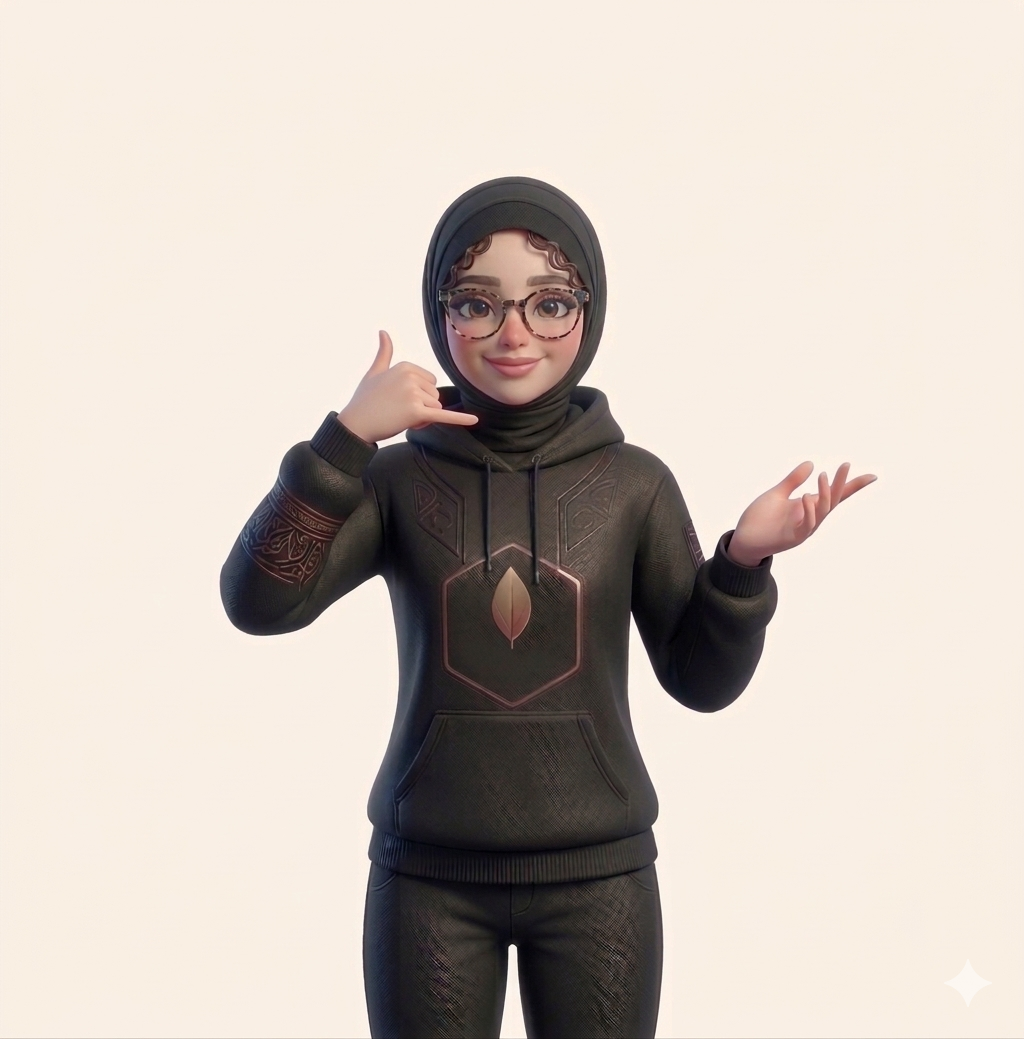
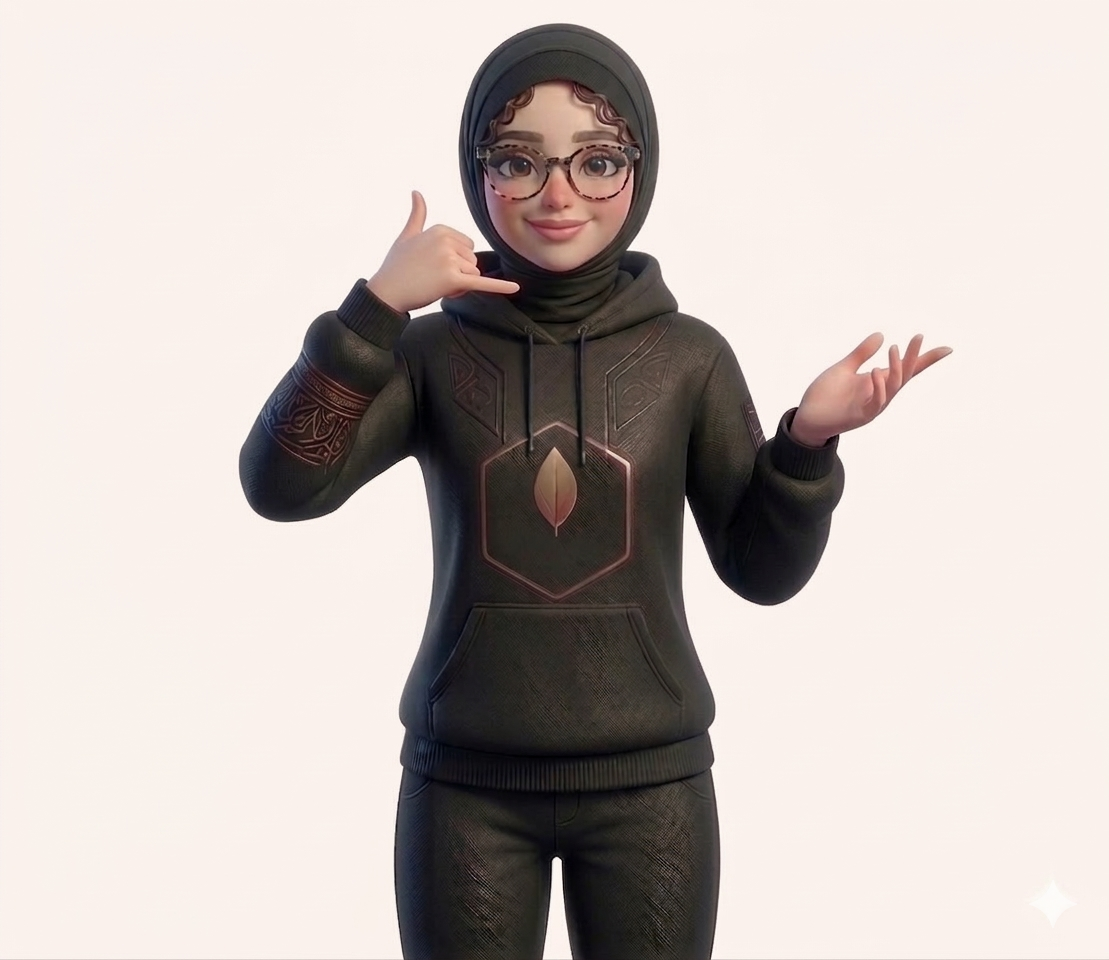
commit

diff --git a/app/components/projects/page.js b/app/components/projects/page.js
@@ -1,0 +1,121 @@
+"use client"
+import React from 'react'
+import Image from "next/image"
+import { motion } from "framer-motion"
+import projects from "../../../public/imgs/projects.png"
+
+const Projects = () => {
+
+    const projectsArray = [
+        {
+            title: "Burger Builder App",
+            tech: "HTML, CSS, JavaScript (Vanilla JS)",
+            description: "A dynamic burger customization application built in vanilla JavaScript. Users can add and remove ingredients in real-time with DOM manipulation, updating pricing logic instantly for an interactive user experience.",
+            github: "https://github.com/saleenagul35-svg/Burger-Builder.git",
+            live: "https://saleenagul35-svg.github.io/Burger-Builder/",
+            image: "/imgs/Burger-Builder.png",
+        },
+        {
+            title: "Finance Tracker App",
+            tech: "React, Tailwind CSS",
+            description: "A personal finance tracking application that allows users to manage income and expenses effectively. Focused on clean UI structure, reusable components, and performance optimization.",
+            github: "https://github.com/saleenagul35-svg/finance-Tracker-App.git",
+            live: "https://finance-tracker-app-beige.vercel.app/",
+            image: "/imgs/Finance-Tracker.png",
+        },
+        {
+            title: "Mythical Creature Explorer",
+            tech: "HTML, CSS, JavaScript (Vanilla JS)",
+            description: "An interactive web application that allows users to explore various mythical creatures with dynamic content rendering using pure JavaScript. Built with advanced DOM manipulation, structured data handling, and responsive UI to deliver an engaging browsing experience.",
+            github: "https://github.com/saleenagul35-svg/Mythical-Creatures-Explorer.git",
+            live: "https://saleenagul35-svg.github.io/Mythical-Creatures-Explorer/",
+            image: "/imgs/Mythical-Creature-Explorer.png",
+        },
+        {
+            title: "Project Management Dashboard",
+            tech: "HTML, CSS, JavaScript (Vanilla JS)",
+            description: "A fully interactive task and workflow dashboard developed using pure JavaScript. Features task tracking, dynamic UI updates, and structured component logic for managing projects efficiently.",
+            github: "https://github.com/saleenagul35-svg/Project-management-dashboard.git",
+            live: "https://saleenagul35-svg.github.io/Project-management-dashboard/",
+            image: "/imgs/Dashboard.png",
+        },
+
+        {
+            title: "React To-Do App",
+            tech: "React, Tailwind CSS",
+            description: "A modern task management application built with React and styled using Tailwind CSS. Implements component-based architecture, dynamic state management, and a clean responsive design.",
+            github: "#",
+            live: "#",
+            image: "/imgs/To-do-list.png",
+        },
+        {
+            title: "Next.js Calculator",
+            tech: "Next.js, Tailwind CSS",
+            description: "A responsive and optimized calculator application built using Next.js. Demonstrates efficient state handling, reusable components, and clean UI design principles.",
+            github: "https://github.com/saleenagul35-svg/Calculator.git",
+            live: "https://calculator-two-nu-14.vercel.app/",
+            image: "/imgs/Calculator.png",
+        },
+
+    ];
+
+    const leftProjects = projectsArray.slice(0, 4)
+    const rightProjects = projectsArray.slice(4, 6)
+    return (
+        <>
+            <section className='flex justify-center mt-20' id='projects'>
+                <motion.div className='w-275 bg-[#FAF1ED] rounded-[40px] h-250 flex flex-col justify-center p-10 items-center gap-10 shadow-lg shadow-black-200 '>
+                    <h1 className='text-transparent bg-clip-text bg-linear-to-br from-[#f6aa74] via-[#f8c5bb] to-[#f4593a] text-6xl font-bold'>Projects</h1>
+                    <div className='flex justify-center items-center gap-25 '>
+                        <div className='flex flex-col gap-10'>
+                            {leftProjects.map((arr, i) =>
+
+                                <div className=' bg-[#FAF1ED] ' key={i}>
+                                    <Image
+                                        src={arr.image}
+                                        alt={arr.title}
+                                        height={300}
+                                        width={400}
+                                        className='rounded-[10px] '
+
+
+                                    />
+                                </div>
+
+
+                            )}
+                        </div>
+                        <div className=' h-90 w-85 bg-[#FAF1ED] flex justify-center'>
+                            <Image
+                                src={projects}
+                                alt='projects'
+                                className='rounded-[100px] '
+
+                            />
+                        </div>
+                        <div className='flex flex-col gap-10'>
+                            {rightProjects.map((arr, i) =>
+
+                                <div className=' bg-[#FAF1ED] ' key={i}>
+                                    <Image
+                                        src={arr.image}
+                                        alt={arr.title}
+                                        height={396}
+                                        width={300}
+                                        className='rounded-[10px] max-h-99 '
+
+
+                                    />
+                                </div>
+
+
+                            )}
+                        </div>
+                    </div>
+                </motion.div>
+            </section>
+        </>
+    )
+}
+
+export default Projects

diff --git a/app/components/hero/page.js b/app/components/hero/page.js
@@ -1,20 +1,20 @@
 "use client"
 import React from 'react'
 import Image from "next/image"
-import {motion} from "framer-motion"
+import { motion } from "framer-motion"
 import hero from "../../../public/imgs/hero.png"
 import { IoMdDownload } from "react-icons/io";
 const Hero = () => {
   return (
     <section className='flex justify-center mt-20' id='hero'>
       <motion.div className='w-275 bg-[#fcf4f0] rounded-[40px] h-120 flex justify-center items-center gap-40 shadow-lg shadow-black-200'>
-        <div className=' h-65 w-85 bg-[#fcf4f0] '>
-        <Image 
-        src={hero}
-        alt='hero'
-        className='rounded-[100px] relative bottom-20'
-       
-        />
+        <div className=' h-90 w-85 bg-[#fcf4f0] flex justify-center '>
+          <Image
+            src={hero}
+            alt='hero'
+            className='rounded-[100px] '
+
+          />
         </div>
         <div className='w-120 flex flex-col gap-10'>
           <h1 className='text-[#ff6659] text-6xl font-bold'>Saleena Gul</h1>
@@ -22,22 +22,22 @@ const Hero = () => {
             A passionate frontend developer creating modern and interactive web experiences using React, Next.js, and beautiful UI animations.
           </p>
           <div className='flex gap-5'>
-            <motion.a href='../../../public/imgs/Saleena-Gul.pdf' download 
-            whileHover={{backgroundColor:"white", border:"1px solid #ff6659", color:"#ff6659", scale:1.08}} 
-            className='py-2.75 px-5  rounded-[10px] bg-[#ff6659] text-white flex items-center gap-2'
+            <motion.a href='../../../public/imgs/Saleena-Gul.pdf' download
+              whileHover={{ backgroundColor: "white", border: "1px solid #ff6659", color: "#ff6659", scale: 1.08 }}
+              className='py-2.75 px-5  rounded-[10px] bg-[#ff6659] text-white flex items-center gap-2'
             ><IoMdDownload />Resume</motion.a>
-          
+
             <motion.a
-            href='#contact'
-             whileHover={{backgroundColor:"#ff6659", color:"white", scale:1.08}} 
-             className='text-[#ff6659] border border-[#ff6659] py-2.75 px-5 rounded-[10px] cursor-pointer'
+              href='#contact'
+              whileHover={{ backgroundColor: "#ff6659", color: "white", scale: 1.08 }}
+              className='text-[#ff6659] border border-[#ff6659] py-2.75 px-5 rounded-[10px] cursor-pointer'
 
             >Contact me</motion.a>
-     
+
           </div>
         </div>
       </motion.div>
-      
+
     </section>
   )
 }

diff --git a/app/components/footer/page.js b/app/components/footer/page.js
@@ -1,0 +1,36 @@
+"use client"
+import React from 'react'
+import { motion } from "framer-motion"
+import { MdEmail } from "react-icons/md";
+import { IoLogoGithub } from "react-icons/io";
+import { FaLinkedin } from "react-icons/fa";
+const Footer = () => {
+    const links = ["About", "Education", "Skills", "Projects", "Contact"]
+    return (
+
+        <>
+
+            <motion.div className=' bg-[#FAF1ED] mt-20 p-10 flex flex-col justify-center items-center gap-4 shadow-lg shadow-black-200 '>
+                <h1 className='text-lg font-medium'>Saleena Gul</h1>
+                <p className='text-sm text-gray-700'>MERN stack developer building modren web experiences</p>
+                <div className='flex gap-5 '>
+                    {links.map((arr) =>
+                        <a href={`#${arr.toLowerCase()}`} className='text-sm font-semibold hover:text-[#ff6659]'>{arr}</a>
+                    )}
+                </div>
+                <div className='flex gap-5 '>
+                    <a href='http://www.linkedin.com/in/saleena-gul' target='_blank' className='text-gray-700 hover:text-[#ff6659]'><FaLinkedin /></a>
+                    <a href='https://mail.google.com/mail/?view=cm&fs=1&to=saleenagul35@gmail.com' target='_blank' className='text-gray-700 hover:text-[#ff6659]'><MdEmail /></a>
+                    <a href='https://github.com/saleenagul35-svg' target='_blank' className='text-gray-700 hover:text-[#ff6659]'><IoLogoGithub /></a>
+                </div>
+                <div className='text-sm text-gray-700'>
+                     © {new Date().getFullYear()} Saleena Gul. All rights resevered
+                </div>
+            </motion.div>
+
+
+        </>
+    )
+}
+
+export default Footer

diff --git a/app/components/contact/page.js b/app/components/contact/page.js
@@ -7,18 +7,18 @@ const Contact = () => {
     return (
         <>
             <section className=' flex justify-center mt-20' id='contact'>
-                <motion.div className='w-275 bg-[#f9efe5] rounded-[40px] h-135 flex flex-col justify-center items-center gap-10 shadow-lg shadow-black-200 '>
+                <motion.div className='w-275 bg-[#FAF1ED] rounded-[40px] h-135 flex flex-col justify-center items-center gap-10 shadow-lg shadow-black-200 '>
                     <div className='flex flex-col justify-center items-center gap-3'>
-                        <h1 className=' text-5xl font-bold'>Get In Touch</h1>
+                        <h1 className=' text-5xl font-bold text-transparent bg-clip-text bg-linear-to-br from-[#f6aa74] via-[#f8c5bb] to-[#f4593a]'>Get In Touch</h1>
                         <p className='text-xl text-gray-700'>Feel free to reach out for collaboration or opportunities</p>
                     </div>
                     <div className='flex gap-30 justify-center items-center '>
 
-                        <div className=' h-100 w-100 bg-[#f9efe5] '>
+                        <div className=' h-90 w-85 bg-[#FAF1ED] flex justify-center '>
                             <Image
                                 src={contact}
                                 alt='skills'
-                                className='rounded-[100px] relative bottom-9 h-full'
+                                className='rounded-[100px]'
 
                             />
                         </div>

diff --git a/app/components/about/page.js b/app/components/about/page.js
@@ -10,7 +10,7 @@ const About = () => {
             <motion.div className='w-275 bg-[#fcf4f0] rounded-[40px] h-120 flex justify-center items-center gap-20 shadow-lg shadow-black-200'>
 
                 <div className='w-150 flex flex-col gap-10'>
-                    <h1 className='text-[#ff6659] text-6xl font-bold flex gap-5'><span className='text-black'>About</span><span>Me</span></h1>
+                    <h1 className=' text-6xl font-bold flex gap-5'><span className='text-black'>About</span><span className='text-transparent bg-clip-text bg-linear-to-br from-[#f6aa74] via-[#f8c5bb] to-[#f4593a]'>Me</span></h1>
                     <p className='text-l text-gray-700'>
                         I’m a passionate frontend developer who enjoys transforming ideas into beautiful and interactive web experiences. I focus on building modern, responsive interfaces using the latest web technologies.
 
@@ -39,11 +39,11 @@ const About = () => {
 
                     </div>
                 </div>
-                <div className=' h-65 w-85 bg-[#fcf4f0] '>
+                <div className=' h-90 w-85 bg-[#fcf4f0] flex justify-center '>
                     <Image
                         src={about}
                         alt='about'
-                        className='rounded-[100px] relative bottom-8'
+                        className='rounded-[100px] '
 
                     />
                 </div>

diff --git a/app/components/skills/page.js b/app/components/skills/page.js
@@ -22,7 +22,7 @@ const Skills = () => {
         <>
             <section className=' flex justify-center mt-20' id='skills'>
                 <motion.div className='w-275 bg-[#fcf4f0] rounded-[40px] h-140 flex flex-col justify-center items-center gap-15 shadow-lg shadow-black-200 '>
-                    <h1 className='text-[#ff6659] text-6xl font-bold'>Skills</h1>
+                    <h1 className='text-transparent bg-clip-text bg-linear-to-br from-[#f6aa74] via-[#f8c5bb] to-[#f4593a] text-6xl font-bold'>Skills</h1>
                     <div className='flex gap-25'>
                         <div className='grid grid-cols-3 gap-10'>
                             {skills.map((arr, i) =>
@@ -31,11 +31,11 @@ const Skills = () => {
                                 >{arr}</motion.div>
                             )}
                         </div>
-                        <div className=' h-65 w-85 bg-[#fcf4f0] '>
+                        <div className=' h-90 w-85 bg-[#fcf4f0] flex justify-center '>
                             <Image
                                 src={skill}
                                 alt='skills'
-                                className='rounded-[100px] relative bottom-15'
+                                className='rounded-[100px] '
 
                             />
                         </div>

diff --git a/app/components/education/page.js b/app/components/education/page.js
@@ -38,7 +38,7 @@ const Education = () => {
         <>
             <section className='flex justify-center mt-20' id='education'>
                 <motion.div className='w-275 bg-[#fcf4f0] rounded-[40px] h-120 flex flex-col justify-center items-center gap-25 shadow-lg shadow-black-200 '>
-                    <h1 className='text-[#ff6659] text-5xl font-bold flex gap-5'><span className='text-black'>My</span><span>Education</span></h1>
+                    <h1 className=' text-5xl font-bold flex gap-5'><span className='text-black'>My</span><span className='text-transparent bg-clip-text bg-linear-to-br from-[#f6aa74] via-[#f8c5bb] to-[#f4593a]'>Education</span></h1>
                     <div className='flex gap-6'>
                     {educationData.map((arr,i) =>
                         <motion.div key={i} className='w-60 bg-[#ffffff] p-5 rounded-2xl flex flex-col gap-5' whileHover={{y:-3,scale:1.05, boxShadow:"0px 0px 25px #f9a59d"}}>

diff --git a/app/layout.js b/app/layout.js
@@ -2,6 +2,7 @@ import { Geist, Geist_Mono } from "next/font/google";
 import "./globals.css";
 import Navbar from "./components/navbar/page";
 import Background from "./components/background/page";
+import Footer from "./components/footer/page";
 
 const geistSans = Geist({
   variable: "--font-geist-sans",
@@ -27,6 +28,7 @@ export default function RootLayout({ children }) {
         <Background/>
         <Navbar />
         {children}
+        <Footer/>
       </body>
     </html>
   );

diff --git a/app/page.js b/app/page.js
@@ -2,6 +2,7 @@ import About from "./components/about/page";
 import Contact from "./components/contact/page";
 import Education from "./components/education/page";
 import Hero from "./components/hero/page";
+import Projects from "./components/projects/page";
 import Skills from "./components/skills/page";
 
 
@@ -12,6 +13,7 @@ export default function Home() {
 <About/>
 <Education/>
 <Skills/>
+<Projects/>
 <Contact/>
 </>
   );
